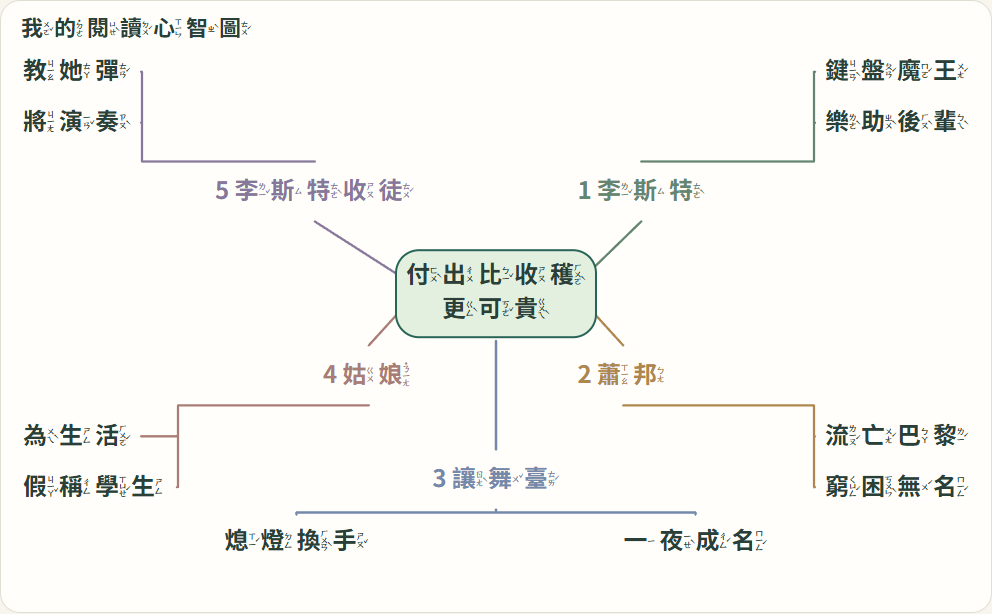
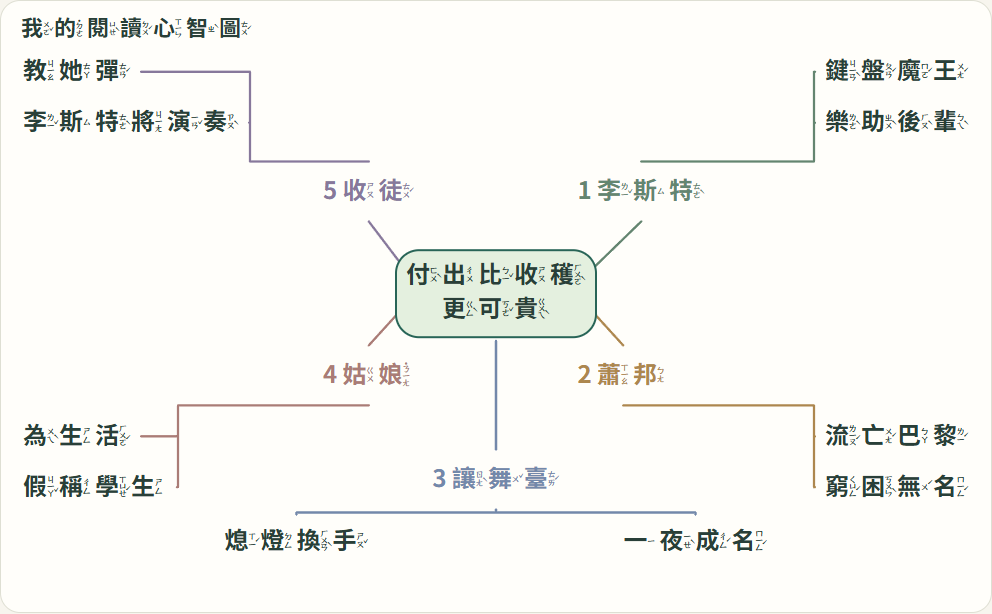
fix(mind-map): name the performer in the copy text

diff --git a/docs/giving-more-precious-mind-map/style.css b/docs/giving-more-precious-mind-map/style.css
@@ -13,5 +13,4 @@ header,main{max-width:1400px;margin:auto;padding:8px max(16px,env(safe-area-inse
 @media(min-width:960px) and (max-height:720px) and (orientation:landscape){.choices{margin:6px 0;gap:8px}.feedback{margin:4px 0}#guide .actions{margin-top:6px}}
 @media(max-width:580px){header{font-size:14px}header,main{padding-left:10px;padding-right:10px}.card{padding:10px}h1{font-size:22px}h2{font-size:24px}.mind-map,.copy-mode .mind-map{font-size:16px;height:580px}.branch h3,.copy-mode .branch h3{font-size:18px}.center-node,.copy-mode .center-node{font-size:17px;width:145px}.copy-mode .map-card{padding:10px}.branch-0 h3,.branch-2 h3{right:0}.branch-1 h3,.branch-3 h3{left:0}.garden-choices .choice{font-size:20px}.choice{font-size:21px}.actions button{font-size:18px}}
 .center-node span{display:block;white-space:nowrap}
-@media(max-width:580px){.branch-0 h3{left:0;right:auto}}
 @media print{@page{size:A4 landscape;margin:12mm}header,h1,#guide,#finish,.parent-note,#save-status,#font-status{display:none!important}.workspace{display:block}.map-card{max-width:none!important;border:0!important;padding:0!important}.mind-map,.copy-mode .mind-map{height:150mm;font-size:24px;break-inside:avoid}.branch h3{font-size:24px}.center-node{font-size:24px;width:202px}main{padding:0}body{background:white}*{-webkit-print-color-adjust:exact;print-color-adjust:exact}}

diff --git a/learning-tasks/giving-more-precious/source/style.css b/learning-tasks/giving-more-precious/source/style.css
@@ -13,5 +13,4 @@ header,main{max-width:1400px;margin:auto;padding:8px max(16px,env(safe-area-inse
 @media(min-width:960px) and (max-height:720px) and (orientation:landscape){.choices{margin:6px 0;gap:8px}.feedback{margin:4px 0}#guide .actions{margin-top:6px}}
 @media(max-width:580px){header{font-size:14px}header,main{padding-left:10px;padding-right:10px}.card{padding:10px}h1{font-size:22px}h2{font-size:24px}.mind-map,.copy-mode .mind-map{font-size:16px;height:580px}.branch h3,.copy-mode .branch h3{font-size:18px}.center-node,.copy-mode .center-node{font-size:17px;width:145px}.copy-mode .map-card{padding:10px}.branch-0 h3,.branch-2 h3{right:0}.branch-1 h3,.branch-3 h3{left:0}.garden-choices .choice{font-size:20px}.choice{font-size:21px}.actions button{font-size:18px}}
 .center-node span{display:block;white-space:nowrap}
-@media(max-width:580px){.branch-0 h3{left:0;right:auto}}
 @media print{@page{size:A4 landscape;margin:12mm}header,h1,#guide,#finish,.parent-note,#save-status,#font-status{display:none!important}.workspace{display:block}.map-card{max-width:none!important;border:0!important;padding:0!important}.mind-map,.copy-mode .mind-map{height:150mm;font-size:24px;break-inside:avoid}.branch h3{font-size:24px}.center-node{font-size:24px;width:202px}main{padding:0}body{background:white}*{-webkit-print-color-adjust:exact;print-color-adjust:exact}}

diff --git a/docs/giving-more-precious-mind-map/content.js b/docs/giving-more-precious-mind-map/content.js
@@ -54,13 +54,13 @@ const BRANCHES = [
     ]
   },
   {
-    id: 'lesson', label: '李斯特收徒', min: 1, max: 1,
+    id: 'lesson', label: '收徒', min: 1, max: 1,
     question: '李斯特聽了姑娘的苦衷，怎麼幫她？',
     prompt: '選一組，記下他給姑娘的幫助。',
     hint: '李斯特請她先彈一遍，指出哪裡可以改進，也親自示範彈法。他和氣地收她為學生，還請她在海報上加印李斯特將親自到場演奏的消息。',
     choices: [
-      {id: 'lesson-teach', words: ['教她彈', '將演奏']},
-      {id: 'lesson-method', words: ['教彈法', '將演奏']}
+      {id: 'lesson-teach', words: ['教她彈', '李斯特將演奏']},
+      {id: 'lesson-method', words: ['教彈法', '李斯特將演奏']}
     ]
   }
 ];

diff --git a/learning-tasks/giving-more-precious/source/content.js b/learning-tasks/giving-more-precious/source/content.js
@@ -54,13 +54,13 @@ const BRANCHES = [
     ]
   },
   {
-    id: 'lesson', label: '李斯特收徒', min: 1, max: 1,
+    id: 'lesson', label: '收徒', min: 1, max: 1,
     question: '李斯特聽了姑娘的苦衷，怎麼幫她？',
     prompt: '選一組，記下他給姑娘的幫助。',
     hint: '李斯特請她先彈一遍，指出哪裡可以改進，也親自示範彈法。他和氣地收她為學生，還請她在海報上加印李斯特將親自到場演奏的消息。',
     choices: [
-      {id: 'lesson-teach', words: ['教她彈', '將演奏']},
-      {id: 'lesson-method', words: ['教彈法', '將演奏']}
+      {id: 'lesson-teach', words: ['教她彈', '李斯特將演奏']},
+      {id: 'lesson-method', words: ['教彈法', '李斯特將演奏']}
     ]
   }
 ];

diff --git a/learning-tasks/giving-more-precious/README.md b/learning-tasks/giving-more-precious/README.md
@@ -10,7 +10,7 @@
 
 ## 驗證
 
-Claude Sonnet／medium 直接核對原照。依審查將李斯特寫入最後一枝枝名，讓孩子只看完成圖也知道是李斯特收徒、教琴，並主動表示將演奏。提示修正「提攜」的解釋及「彈一遍」的注音。32 種合法選法均為 60 字，保留兩段故事的核心。
+Claude Sonnet／medium 直接核對原照。依審查讓最後一枝的兩種選法都直接寫「李斯特將演奏」，孩子只看完成圖也能辨認演奏者。這組六字保留必要的人名，完成圖在 32 種選法下均為 60 字。提示修正「提攜」的解釋及「彈一遍」的注音。
 
 隔離 Chromium 驗證從煦誠首頁進入新篇、選詞取消與替換、回改、重整還原、完成抄寫版、返回孩子首頁及開啟過去文章。完成圖核對 1024×650、1024×768、1180×720、768×1024、390×844 的順時針位置、文字盒、連線與水平溢出，較矮的橫向尺寸也走完選詞。iPad 真機與實體列印沿用先前略過的決定。
 

diff --git a/learning-tasks/giving-more-precious/source/coverage.md b/learning-tasks/giving-more-precious/source/coverage.md
@@ -8,7 +8,7 @@
 | 2 蕭邦 | 第 20 頁第一則故事前段 | 流亡巴黎、窮困且沒有名氣 | 自波蘭來；對照當時已成名的李斯特 |
 | 3 讓舞臺 | 第 20 頁第一則故事後段 | 趁熄燈換人演奏、蕭邦一夕成名 | 熄燈是當時的演奏會習慣；燈亮後聽眾發現是蕭邦 |
 | 4 姑娘 | 第 20 頁第二則故事前段 | 為了生計、自稱李斯特的學生 | 演奏會前一天見到李斯特，說出苦衷並求原諒 |
-| 5 李斯特收徒 | 第 21 頁正文結尾 | 李斯特收她為學生、教導彈法、表明將演奏 | 先聽她彈再指點與示範；正文停在李斯特主動請她補印海報 |
+| 5 收徒 | 第 21 頁正文結尾 | 收她為學生、教導彈法、「李斯特將演奏」 | 先聽她彈再指點與示範；正文停在李斯特主動請她補印海報 |
 
 完成圖以正文先後為順序。原題串起兩段故事，陪讀者可引導孩子比較李斯特兩次給出的幫助。音樂欣賞可另外聊，圖上留下正文可直接支持的重點。
 
